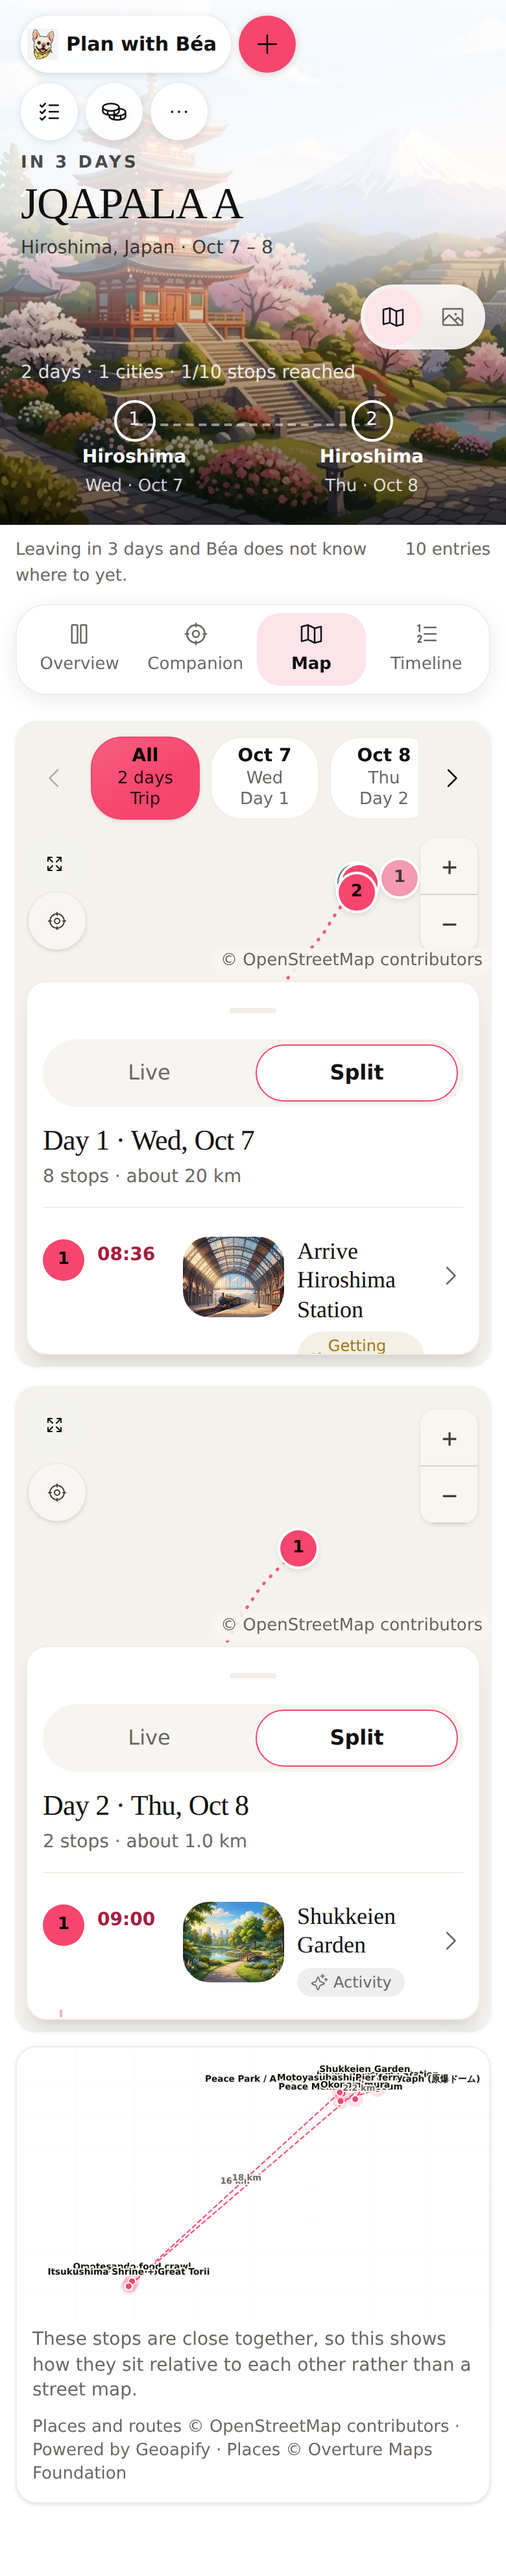
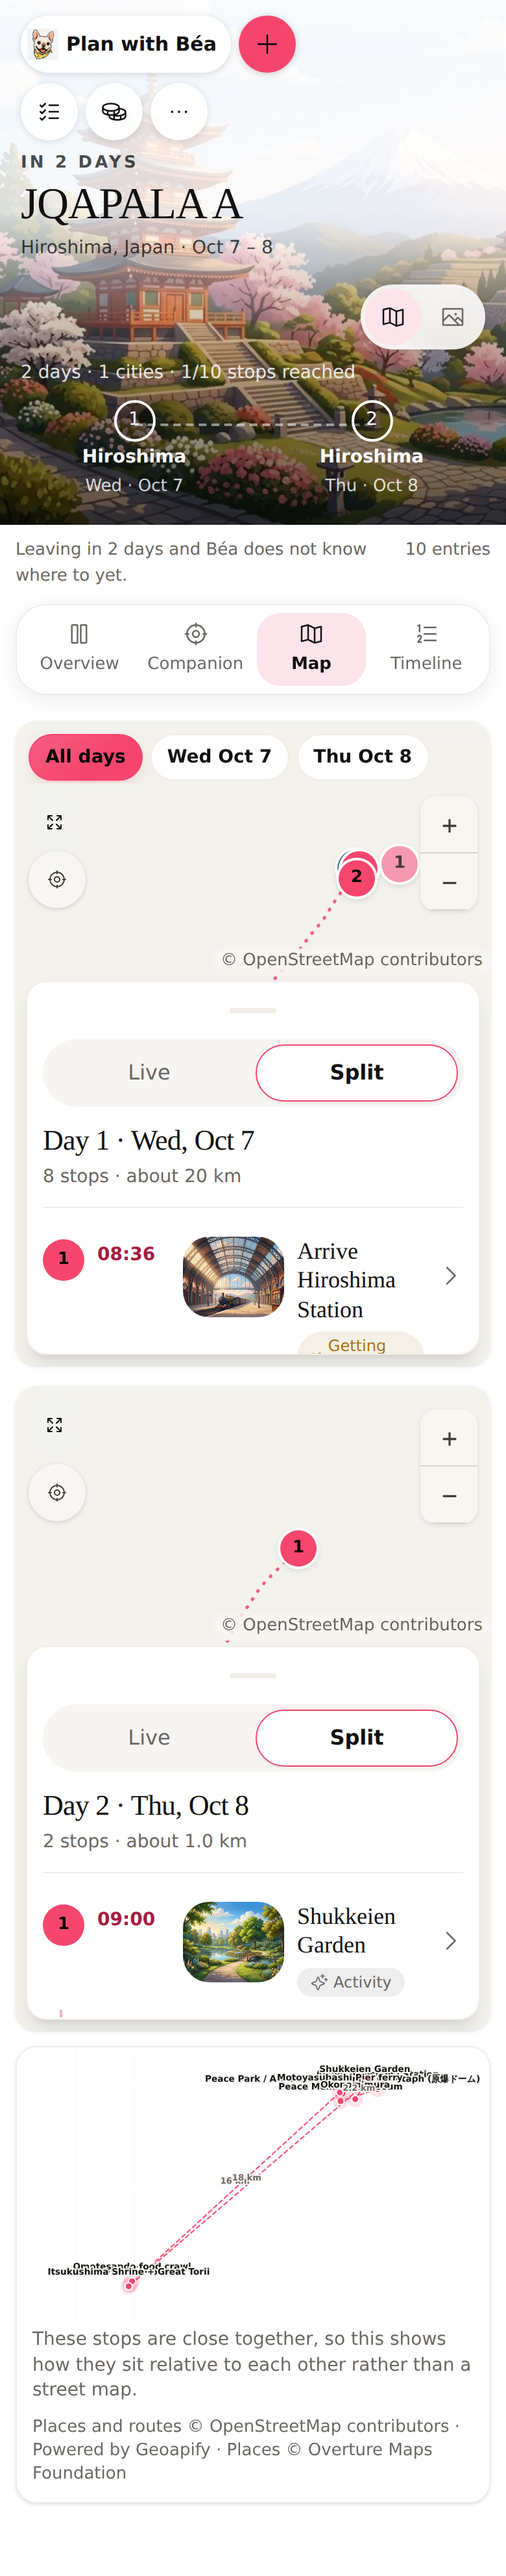
Companion: slim one-line city and day pickers
Claude-Session: https://claude.ai/code/session_017ppDgWXV4rB4FZrGwyHhpK

diff --git a/src/components/day/DayCards.tsx b/src/components/day/DayCards.tsx
@@ -1,5 +1,4 @@
 import { useEffect, useRef } from "react";
-import { ChevronLeft, ChevronRight } from "@/components/icons";
 import { ALL_DAYS, type DayChip, type DayChoice } from "@/lib/trip-days";
 
 /**
@@ -25,65 +24,38 @@ export function DayCards({
       ?.querySelector<HTMLElement>('[aria-selected="true"]')
       ?.scrollIntoView({ block: "nearest", inline: "center" });
   }, [value]);
-  const step = (by: 1 | -1) => {
-    const next = choices[at + by];
-    if (next !== undefined) onChange(next);
-  };
-  const arrow =
-    "grid size-11 shrink-0 place-items-center rounded-full text-foreground disabled:opacity-30";
 
   return (
-    <div className="flex items-center gap-1">
-      <button
-        type="button"
-        onClick={() => step(-1)}
-        disabled={at === 0}
-        aria-label="Previous day"
-        className={arrow}
-      >
-        <ChevronLeft className="size-5" aria-hidden />
-      </button>
-      <div
-        ref={row}
-        role="tablist"
-        aria-label="Which day to show"
-        className="no-scrollbar flex min-w-0 flex-1 snap-x gap-2 overflow-x-auto px-0.5 py-1"
-      >
-        <Card
-          selected={value === ALL_DAYS}
-          onSelect={() => onChange(ALL_DAYS)}
-          top="All"
-          middle={`${chips.filter((c) => c.key).length || chips.length} days`}
-          bottom="Trip"
-        />
-        {chips.map((chip) => {
-          const date = chip.key ? new Date(`${chip.key}T00:00:00`) : null;
-          return (
-            <Card
-              key={chip.key || "undated"}
-              selected={value === chip.key}
-              onSelect={() => onChange(chip.key)}
-              top={
-                date
-                  ? date.toLocaleDateString(undefined, { month: "short", day: "numeric" })
-                  : "No date"
-              }
-              middle={date ? date.toLocaleDateString(undefined, { weekday: "short" }) : "—"}
-              bottom={chip.ordinal || `${chip.count} stops`}
-              today={chip.isToday}
-            />
-          );
-        })}
-      </div>
-      <button
-        type="button"
-        onClick={() => step(1)}
-        disabled={at >= choices.length - 1}
-        aria-label="Next day"
-        className={arrow}
-      >
-        <ChevronRight className="size-5" aria-hidden />
-      </button>
+    <div
+      ref={row}
+      role="tablist"
+      aria-label="Which day to show"
+      className="no-scrollbar flex w-full snap-x gap-1.5 overflow-x-auto px-0.5 py-0.5"
+    >
+      <Card
+        selected={value === ALL_DAYS}
+        onSelect={() => onChange(ALL_DAYS)}
+        label="All days"
+        title={`All ${chips.filter((c) => c.key).length || chips.length} days of the trip`}
+      />
+      {chips.map((chip) => {
+        const date = chip.key ? new Date(`${chip.key}T00:00:00`) : null;
+        const label = date
+          ? `${date.toLocaleDateString(undefined, { weekday: "short" })} ${date.toLocaleDateString(undefined, { month: "short", day: "numeric" })}`
+          : "No date";
+        return (
+          <Card
+            key={chip.key || "undated"}
+            selected={value === chip.key}
+            onSelect={() => onChange(chip.key)}
+            label={label}
+            title={[chip.ordinal, `${chip.count} stops`, chip.isToday ? "today" : ""]
+              .filter(Boolean)
+              .join(" · ")}
+            today={chip.isToday}
+          />
+        );
+      })}
     </div>
   );
 }
@@ -91,16 +63,14 @@ export function DayCards({
 function Card({
   selected,
   onSelect,
-  top,
-  middle,
-  bottom,
+  label,
+  title,
   today = false,
 }: {
   selected: boolean;
   onSelect: () => void;
-  top: string;
-  middle: string;
-  bottom: string;
+  label: string;
+  title: string;
   today?: boolean;
 }) {
   return (
@@ -109,24 +79,21 @@ function Card({
       role="tab"
       aria-selected={selected}
       onClick={onSelect}
-      className={`flex min-w-[84px] shrink-0 snap-center flex-col items-center rounded-2xl border px-3 py-1.5 leading-tight transition-colors ${
+      title={title}
+      className={`inline-flex min-h-9 shrink-0 snap-center items-center gap-1.5 whitespace-nowrap rounded-full border px-3 text-[14px] font-semibold transition-colors ${
         selected
-          ? "border-primary bg-primary text-primary-foreground shadow-sm"
+          ? "border-primary bg-primary text-primary-foreground"
           : "border-border bg-card text-foreground"
       }`}
     >
-      <span className="text-[14px] font-bold">{top}</span>
-      <span
-        className={`text-[13px] ${selected ? "text-primary-foreground/85" : "text-muted-foreground"}`}
-      >
-        {middle}
-      </span>
-      <span
-        className={`text-[13px] ${selected ? "text-primary-foreground/85" : "text-muted-foreground"}`}
-      >
-        {bottom}
-        {today ? " · Today" : ""}
-      </span>
+      {label}
+      {today && (
+        <span
+          aria-hidden
+          className={`size-1.5 rounded-full ${selected ? "bg-primary-foreground" : "bg-primary"}`}
+        />
+      )}
+      <span className="sr-only">{title ? `, ${title}` : ""}</span>
     </button>
   );
 }

diff --git a/src/components/TripDetail.tsx b/src/components/TripDetail.tsx
@@ -1728,11 +1728,11 @@ export function TripDetail({
           (perspective === "companion" ||
             perspective === "map" ||
             (perspective === "timeline" && timelineByDay)) && (
-            <div className="mb-3">
+            <div className="mb-1.5">
               <div
                 role="tablist"
                 aria-label="Which city to show"
-                className="no-scrollbar -mx-1 flex w-full gap-1.5 overflow-x-auto px-1 py-0.5"
+                className="no-scrollbar flex w-full gap-1.5 overflow-x-auto px-0.5 py-0.5"
               >
                 {[
                   { id: "", city: "All cities", arrive_on: null, depart_on: null },
@@ -1759,20 +1759,15 @@ export function TripDetail({
                         // The city's days, not a day from the city before.
                         setDayChoice(ALL_DAYS);
                       }}
-                      className={`inline-flex shrink-0 flex-col items-start rounded-xl border px-3 py-2.5 text-left transition-all ${
+                      title={dates ? `${c.city}, ${dates}` : c.city}
+                      className={`inline-flex min-h-9 shrink-0 items-center whitespace-nowrap rounded-full border px-3 text-[14px] font-semibold transition-all ${
                         on
                           ? "border-foreground bg-foreground text-background"
                           : "border-border bg-elevated text-foreground"
                       }`}
                     >
-                      <span className="whitespace-nowrap text-[13px] font-semibold">{c.city}</span>
-                      {dates && (
-                        <span
-                          className={`whitespace-nowrap text-[13px] ${on ? "opacity-80" : "text-muted-foreground"}`}
-                        >
-                          {dates}
-                        </span>
-                      )}
+                      {c.id ? (c.city.split(",")[0] ?? c.city) : c.city}
+                      {dates && <span className="sr-only">, {dates}</span>}
                     </button>
                   );
                 })}
@@ -1791,7 +1786,7 @@ export function TripDetail({
         {stopItems.length > 0 &&
           offerDays &&
           (perspective === "companion" || (perspective === "timeline" && timelineByDay)) && (
-            <div ref={dayCardsRef} className="mb-3">
+            <div ref={dayCardsRef} className="mb-2">
               <DayCards chips={chips} value={chosenDay} onChange={setDayChoice} />
             </div>
           )}
